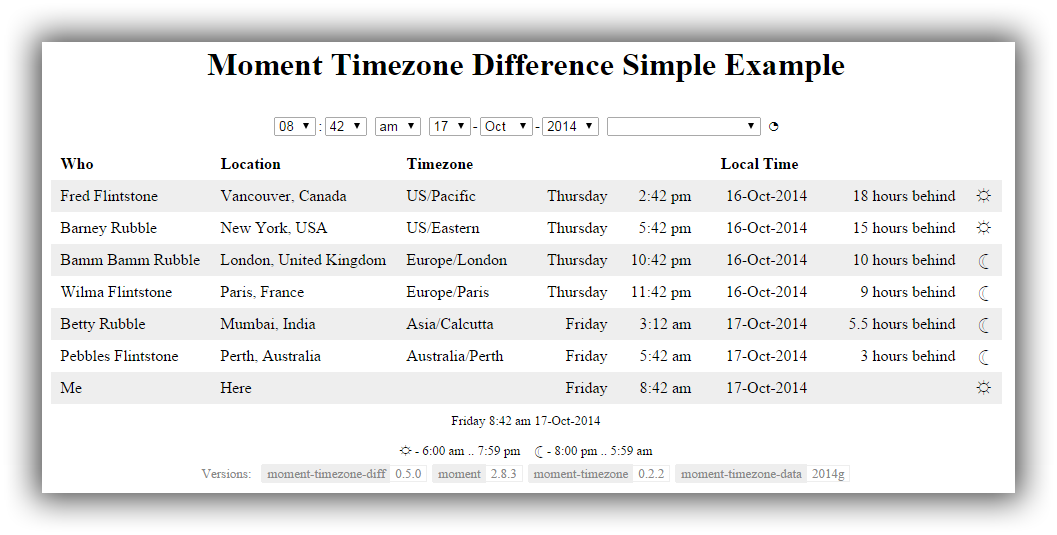
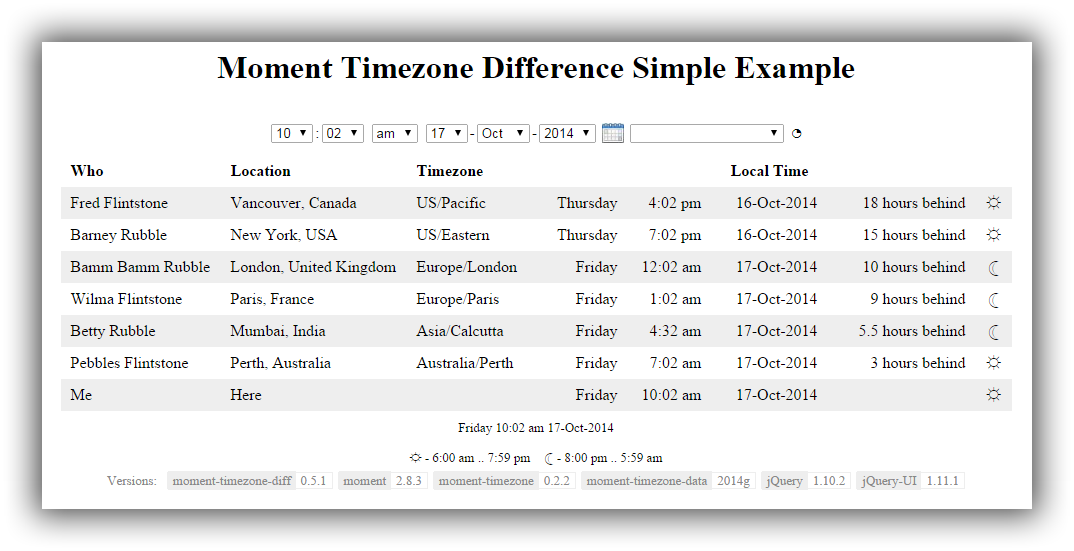
jQuery support to simple example - so calander dropdown is avaiable

diff --git a/examples/simple.html b/examples/simple.html
@@ -8,6 +8,9 @@
 <html>
 <head>
 <meta charset="utf-8">
+<link href="http://code.jquery.com/ui/1.11.1/themes/smoothness/jquery-ui.css" rel="stylesheet" type="text/css" />
+<script src="http://code.jquery.com/jquery-1.10.2.js"></script>
+<script src="http://code.jquery.com/ui/1.11.1/jquery-ui.js"></script>
 <script src='../moment/moment.min.js'></script>
 <script src='../moment/moment-timezone.min.js'></script>
 <script src='../scripts/moment-timezone-diff.js'></script>
@@ -79,6 +82,9 @@
     .currentTime {
         padding-top: 0.75em;
         padding-bottom: 0.75em;
+    }
+    .ui-datepicker {
+        font-size: 80%;
     }
 </style>
 <script>

diff --git a/DOCUMENTATION.md b/DOCUMENTATION.md
@@ -508,6 +508,9 @@ The following example is contained within [examples/simple.html](examples/simple
     <html>
     <head>
     <meta charset="utf-8">
+    <link href="http://code.jquery.com/ui/1.11.1/themes/smoothness/jquery-ui.css" rel="stylesheet" type="text/css" />
+    <script src="http://code.jquery.com/jquery-1.10.2.js"></script>
+    <script src="http://code.jquery.com/ui/1.11.1/jquery-ui.js"></script>
     <script src='../moment/moment.min.js'></script>
     <script src='../moment/moment-timezone.min.js'></script>
     <script src='../scripts/moment-timezone-diff.js'></script>
@@ -579,6 +582,9 @@ The following example is contained within [examples/simple.html](examples/simple
         .currentTime {
             padding-top: 0.75em;
             padding-bottom: 0.75em;
+        }
+        .ui-datepicker {
+            font-size: 80%;
         }
     </style>
     <script>
